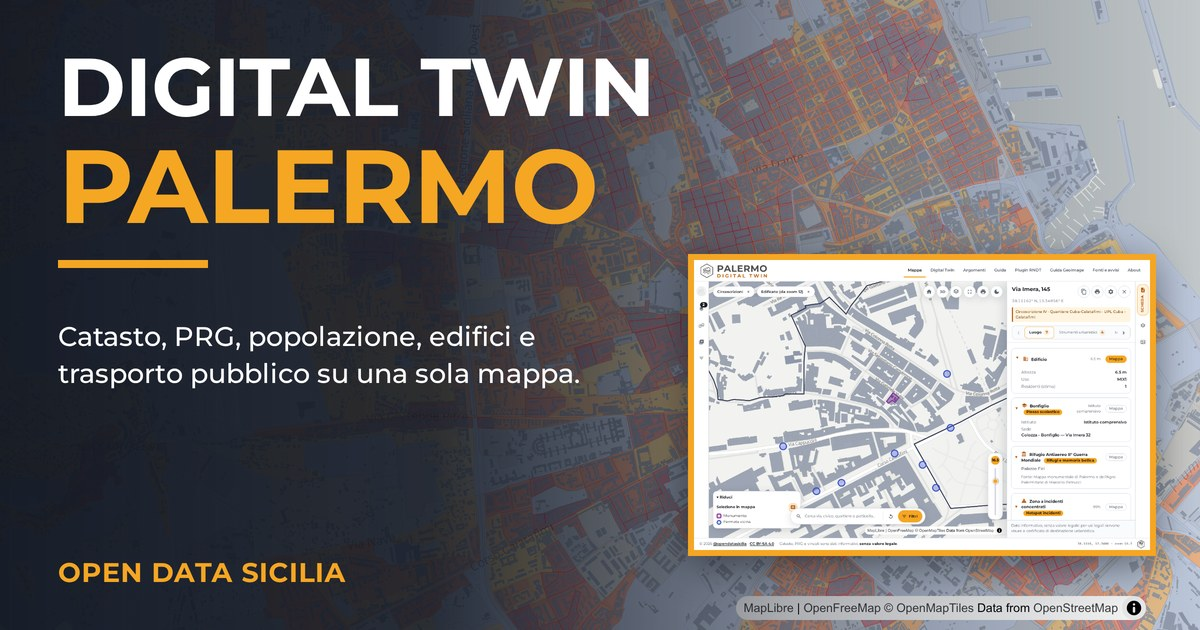
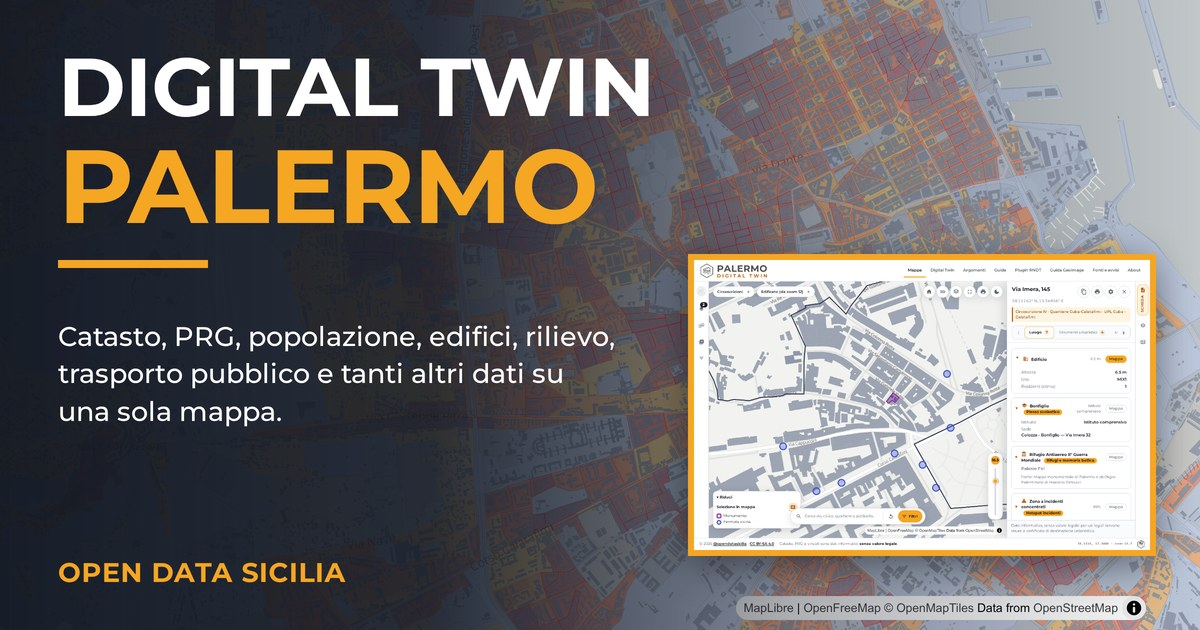
social card: «e tanti altri dati» dopo trasporto pubblico (anche in og:description)

Changed region(s): [[0.2467, 0.5127, 0.5242, 0.6333], [0.0308, 0.6333, 0.2467, 0.6937]]

diff --git a/index.html b/index.html
@@ -13,7 +13,7 @@
 <meta property="og:locale" content="it_IT">
 <meta property="og:site_name" content="Palermo Digital Twin">
 <meta property="og:title" content="Palermo Digital Twin">
-<meta property="og:description" content="Catasto, PRG, popolazione, edifici, rilievo e trasporto pubblico di Palermo su una sola mappa, da dati aperti.">
+<meta property="og:description" content="Catasto, PRG, popolazione, edifici, rilievo, trasporto pubblico e tanti altri dati di Palermo su una sola mappa, da dati aperti.">
 <meta property="og:image" content="https://palermohub.github.io/DigitalTwin/img/social-card.jpg">
 <meta property="og:image:width" content="1200">
 <meta property="og:image:height" content="630">

diff --git a/scripts/social_card.py b/scripts/social_card.py
@@ -19,7 +19,7 @@ from guida_screenshot import ROOT, _avvia_server, controlla_requisiti  # noqa: E
 
 LARGHEZZA, ALTEZZA = 1200, 630
 ARANCIONE = "#f5a623"
-TESTO = "Catasto, PRG, popolazione, edifici e trasporto pubblico su una sola mappa."
+TESTO = "Catasto, PRG, popolazione, edifici, rilievo, trasporto pubblico e tanti altri dati su una sola mappa."
 FIRMA = "OPEN DATA SICILIA"
 STRATI_SFONDO = ["edificato", "coropletico"]
 CENTRO, ZOOM = [13.3380, 38.1157], 13.4
